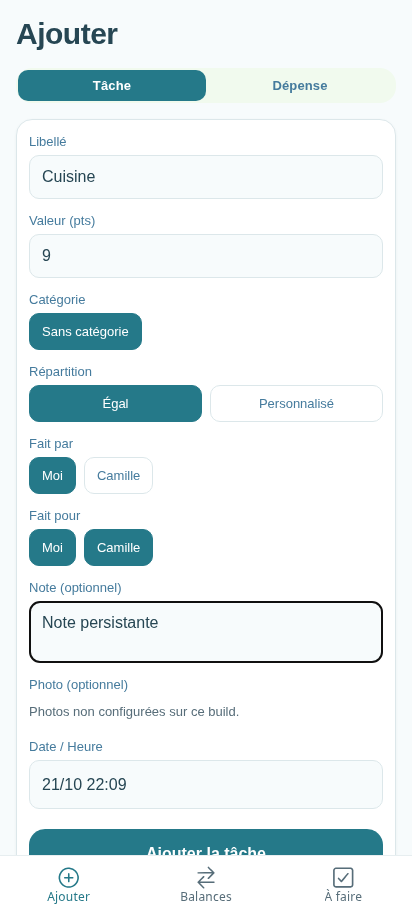
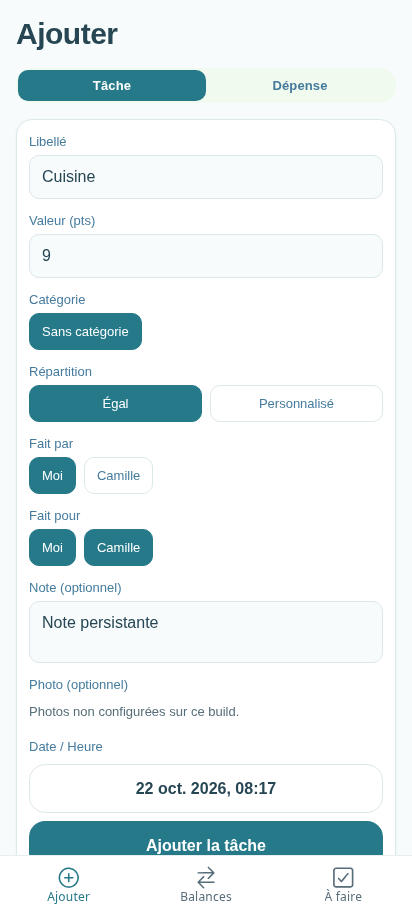
Allow precise local dates and times throughout entry and todo forms

Changed region(s): [[0.0583, 0.8262, 0.932, 0.9486], [0.9029, 0.6426, 0.932, 0.7344], [0.0583, 0.6426, 0.0874, 0.7344]]

diff --git a/app/(tabs)/todos.tsx b/app/(tabs)/todos.tsx
@@ -1,3 +1,4 @@
+import { DateTimeField } from '../../src/ui/components/DateTimeField';
 import { CategoryPicker } from '../../src/features/entries/CategoryPicker';
 import { PhotoField } from '../../src/features/entries/PhotoField';
 import { todoNotificationId } from '../../src/infrastructure/local/LocalNotificationAdapter';
@@ -844,95 +845,13 @@ export default function TodosScreen() {
                 </View>
               )}
 
-              {/* Due date */}
-              <View style={styles.inputGroup}>
-                <Text variant="caption">{t('todos.due')}</Text>
-                <TouchableOpacity
-                  style={styles.dateTimeButton}
-                  onPress={() => {
-                    Alert.alert(t('todos.dueTitle'), t('todos.duePrompt'), [
-                      {
-                        text: t('todos.dueTomorrow'),
-                        onPress: () => {
-                          const d = new Date();
-                          d.setDate(d.getDate() + 1);
-                          d.setHours(18, 0, 0, 0);
-                          setCreateForm((p) => ({ ...p, dueAt: d }));
-                        },
-                      },
-                      {
-                        text: t('todos.dueIn3Days'),
-                        onPress: () => {
-                          const d = new Date();
-                          d.setDate(d.getDate() + 3);
-                          d.setHours(18, 0, 0, 0);
-                          setCreateForm((p) => ({ ...p, dueAt: d }));
-                        },
-                      },
-                      {
-                        text: t('todos.dueIn1Week'),
-                        onPress: () => {
-                          const d = new Date();
-                          d.setDate(d.getDate() + 7);
-                          d.setHours(18, 0, 0, 0);
-                          setCreateForm((p) => ({ ...p, dueAt: d }));
-                        },
-                      },
-                      {
-                        text: t('todos.clear'),
-                        onPress: () => setCreateForm((p) => ({ ...p, dueAt: null })),
-                      },
-                      { text: t('action.cancel'), style: 'cancel' },
-                    ]);
-                  }}
-                >
-                  <Text variant="body">
-                    {createForm.dueAt ? formatDateTimeShort(createForm.dueAt) : t('todos.noDue')}
-                  </Text>
-                </TouchableOpacity>
-              </View>
+              <DateTimeField label={t('todos.due')} value={createForm.dueAt}
+                emptyLabel={t('todos.noDue')} clearable testID="todos.dueDateTime"
+                onChange={(dueAt) => setCreateForm(p => ({...p,dueAt}))} />
 
-              {/* Reminder */}
-              <View style={styles.inputGroup}>
-                <Text variant="caption">{t('todos.reminder')}</Text>
-                <TouchableOpacity
-                  style={styles.dateTimeButton}
-                  onPress={() => {
-                    Alert.alert(t('todos.reminderTitle'), t('todos.reminderPrompt'), [
-                      {
-                        text: t('todos.reminder1h'),
-                        onPress: () => {
-                          if (createForm.dueAt) {
-                            const r = new Date(createForm.dueAt.getTime() - 3600000);
-                            setCreateForm((p) => ({ ...p, reminderAt: r }));
-                          }
-                        },
-                      },
-                      {
-                        text: t('todos.reminderSameDay'),
-                        onPress: () => {
-                          if (createForm.dueAt) {
-                            const r = new Date(createForm.dueAt);
-                            r.setHours(9, 0, 0, 0);
-                            setCreateForm((p) => ({ ...p, reminderAt: r }));
-                          }
-                        },
-                      },
-                      {
-                        text: t('todos.clear'),
-                        onPress: () => setCreateForm((p) => ({ ...p, reminderAt: null })),
-                      },
-                      { text: t('action.cancel'), style: 'cancel' },
-                    ]);
-                  }}
-                >
-                  <Text variant="body">
-                    {createForm.reminderAt
-                      ? formatDateTimeShort(createForm.reminderAt)
-                      : t('todos.noReminder')}
-                  </Text>
-                </TouchableOpacity>
-              </View>
+              <DateTimeField label={t('todos.reminder')} value={createForm.reminderAt}
+                emptyLabel={t('todos.noReminder')} clearable testID="todos.reminderDateTime"
+                onChange={(reminderAt) => setCreateForm(p => ({...p,reminderAt}))} />
 
               {/* Notes */}
               <View style={styles.inputGroup}>

diff --git a/src/ui/components/DateTimeField.tsx b/src/ui/components/DateTimeField.tsx
@@ -1,0 +1,72 @@
+import React, { useState } from 'react';
+import { Modal, View, TextInput, StyleSheet, KeyboardAvoidingView, Platform, ScrollView } from 'react-native';
+import { Text } from './Text';
+import { Button } from './Button';
+import { colors, spacing, borderRadius } from '../design-system/theme';
+import { useI18n } from '../../i18n';
+import { localDateTimeParts, parseLocalDateTime } from '../../domain/services/localDateTime';
+
+interface Props {
+  label: string;
+  value: Date | null;
+  onChange: (value: Date | null) => void;
+  emptyLabel?: string;
+  clearable?: boolean;
+  testID: string;
+}
+
+/** Drafts commit only on confirmation; cancel/back never changes the form.
+ * ISO date fields are deliberately explicit, while the saved date is displayed
+ * in the chosen language. The conversion uses the phone's local timezone. */
+export function DateTimeField({ label, value, onChange, emptyLabel, clearable, testID }: Props) {
+  const { t, locale } = useI18n();
+  const [visible, setVisible] = useState(false);
+  const [date, setDate] = useState('');
+  const [time, setTime] = useState('');
+  const [touched, setTouched] = useState(false);
+  const parsed = parseLocalDateTime(date,time);
+  const open = () => {
+    const parts = localDateTimeParts(value ?? new Date());
+    setDate(parts.date); setTime(parts.time); setTouched(false); setVisible(true);
+  };
+  const chooseNow = () => {
+    const parts = localDateTimeParts(new Date());
+    setDate(parts.date); setTime(parts.time); setTouched(false);
+  };
+  return <View style={styles.field}>
+    <Text variant="caption">{label}</Text>
+    <Button title={value ? new Intl.DateTimeFormat(locale, {dateStyle:'medium',timeStyle:'short'}).format(value) : emptyLabel ?? label}
+      variant="secondary" onPress={open} testID={testID} accessibilityLabel={label} />
+    <Modal visible={visible} transparent animationType="none" onRequestClose={() => setVisible(false)}>
+      <KeyboardAvoidingView style={styles.overlay} behavior={Platform.OS === 'ios' ? 'padding' : 'height'}>
+        <ScrollView contentContainerStyle={styles.center} keyboardShouldPersistTaps="handled">
+          <View style={styles.dialog} accessibilityViewIsModal>
+            <Text variant="sectionTitle">{label}</Text>
+            <Text variant="caption">{t('dateTime.localHint')}</Text>
+            <Text variant="bodyBold">{t('dateTime.date')}</Text>
+            <TextInput style={styles.input} value={date} onChangeText={setDate} onBlur={() => setTouched(true)}
+              accessibilityLabel={t('dateTime.date')} placeholder="2026-10-22" autoCorrect={false}
+              autoCapitalize="none" maxLength={10} testID={`${testID}.date`} />
+            <Text variant="bodyBold">{t('dateTime.time')}</Text>
+            <TextInput style={styles.input} value={time} onChangeText={setTime} onBlur={() => setTouched(true)}
+              accessibilityLabel={t('dateTime.time')} placeholder="18:30" autoCorrect={false}
+              autoCapitalize="none" maxLength={5} testID={`${testID}.time`} />
+            {touched && !parsed ? <Text color={colors.error} accessibilityLiveRegion="polite">{t('dateTime.invalid')}</Text> : null}
+            <Button title={t('dateTime.now')} variant="ghost" onPress={chooseNow} />
+            <Button title={t('action.confirm')} disabled={!parsed} testID={`${testID}.confirm`}
+              onPress={() => { if(parsed) { onChange(parsed); setVisible(false); } }} />
+            {clearable && value ? <Button title={t('dateTime.clear')} variant="secondary"
+              onPress={() => { onChange(null); setVisible(false); }} /> : null}
+            <Button title={t('action.cancel')} variant="ghost" onPress={() => setVisible(false)} />
+          </View>
+        </ScrollView>
+      </KeyboardAvoidingView>
+    </Modal>
+  </View>;
+}
+const styles = StyleSheet.create({
+  field:{gap:spacing.sm},overlay:{flex:1,backgroundColor:'rgba(20,40,48,0.45)'},
+  center:{flexGrow:1,justifyContent:'center',alignItems:'center',padding:spacing.lg},
+  dialog:{width:'100%',maxWidth:440,backgroundColor:colors.surface,borderRadius:borderRadius.lg,padding:spacing.xl,gap:spacing.md},
+  input:{borderWidth:1,borderColor:colors.border,borderRadius:borderRadius.sm,minHeight:48,padding:spacing.md,fontSize:18,color:colors.text},
+});

diff --git a/app/(tabs)/add.tsx b/app/(tabs)/add.tsx
@@ -1,3 +1,4 @@
+import { DateTimeField } from '../../src/ui/components/DateTimeField';
 import { taskUpdatePayload, expenseUpdatePayload } from '../../src/features/entries/editPayload';
 import { PhotoField } from '../../src/features/entries/PhotoField';
 import { LoadingState, ErrorState } from '../../src/ui/components/States';
@@ -774,22 +775,6 @@ export default function AddScreen() {
     });
   };
 
-  const pickDateTime = (current: Date, onPick: (date: Date) => void) => {
-    Alert.alert(t('add.dateTime'), formatDateTimeShort(current), [
-      { text: t('add.dateNow'), onPress: () => onPick(new Date()) },
-      { text: t('add.dateHourAgo'), onPress: () => onPick(new Date(Date.now() - 3600000)) },
-      {
-        text: t('add.dateYesterday'),
-        onPress: () => {
-          const d = new Date();
-          d.setDate(d.getDate() - 1);
-          onPick(d);
-        },
-      },
-      { text: t('action.cancel'), style: 'cancel' },
-    ]);
-  };
-
   // A stored task keeps its own unit: editing it must never relabel minutes as
   // points (or the reverse) just because the group later changed its unit.
   const activeTaskUnit = isEditing ? taskEditUnit ?? householdUnit : householdUnit;
@@ -1258,22 +1243,8 @@ export default function AddScreen() {
             'add.taskPhotoButton',
           )}
 
-          {/* Date / Time */}
-          <View style={styles.inputGroup}>
-            <Text variant="caption">{t('add.dateTime')}</Text>
-            <TouchableOpacity
-              style={styles.dateTimeButton}
-              onPress={() =>
-                pickDateTime(taskForm.occurredAt, (date) =>
-                  setTaskForm((prev) => ({ ...prev, occurredAt: date })),
-                )
-              }
-              accessibilityRole="button"
-              accessibilityLabel={t('a11y.chooseDateTime')}
-            >
-              <Text variant="body">{formatDateTimeShort(taskForm.occurredAt)}</Text>
-            </TouchableOpacity>
-          </View>
+          <DateTimeField label={t('add.dateTime')} value={taskForm.occurredAt}
+            testID="add.taskDateTime" onChange={(date) => { if(date) setTaskForm(prev => ({...prev,occurredAt:date})); }} />
 
           <Button
             title={isEditing ? t('add.update') : t('add.addTask')}
@@ -1481,22 +1452,8 @@ export default function AddScreen() {
             'add.expensePhotoButton',
           )}
 
-          {/* Date / Time */}
-          <View style={styles.inputGroup}>
-            <Text variant="caption">{t('add.dateTime')}</Text>
-            <TouchableOpacity
-              style={styles.dateTimeButton}
-              onPress={() =>
-                pickDateTime(expenseForm.occurredAt, (date) =>
-                  setExpenseForm((prev) => ({ ...prev, occurredAt: date })),
-                )
-              }
-              accessibilityRole="button"
-              accessibilityLabel={t('a11y.chooseDateTime')}
-            >
-              <Text variant="body">{formatDateTimeShort(expenseForm.occurredAt)}</Text>
-            </TouchableOpacity>
-          </View>
+          <DateTimeField label={t('add.dateTime')} value={expenseForm.occurredAt}
+            testID="add.expenseDateTime" onChange={(date) => { if(date) setExpenseForm(prev => ({...prev,occurredAt:date})); }} />
 
           <Button
             title={isEditing ? t('add.update') : t('add.addExpense')}

diff --git a/src/i18n/catalog.ts b/src/i18n/catalog.ts
@@ -27,6 +27,12 @@ export const CATALOG: Record<SupportedLocale, LocaleCatalog> = {
 
     // ── Common actions & states ───────────────────────────────
     'action.save': 'Enregistrer',
+    'dateTime.date': 'Date (AAAA-MM-JJ)',
+    'dateTime.time': 'Heure (HH:MM)',
+    'dateTime.localHint': 'Date et heure locales de votre téléphone.',
+    'dateTime.invalid': 'Vérifiez la date et l’heure : ce créneau doit exister.',
+    'dateTime.now': 'Maintenant',
+    'dateTime.clear': 'Retirer la date',
     'action.cancel': 'Annuler',
     'action.delete': 'Supprimer',
     'action.edit': 'Modifier',
@@ -431,6 +437,12 @@ export const CATALOG: Record<SupportedLocale, LocaleCatalog> = {
 
     // ── Common actions & states ───────────────────────────────
     'action.save': 'Save',
+    'dateTime.date': 'Date (YYYY-MM-DD)',
+    'dateTime.time': 'Time (HH:MM)',
+    'dateTime.localHint': 'Date and time in your phone’s local timezone.',
+    'dateTime.invalid': 'Check the date and time: this time must exist.',
+    'dateTime.now': 'Now',
+    'dateTime.clear': 'Remove date',
     'action.cancel': 'Cancel',
     'action.delete': 'Delete',
     'action.edit': 'Edit',

diff --git a/src/domain/services/localDateTime.ts b/src/domain/services/localDateTime.ts
@@ -1,0 +1,16 @@
+/** Parse explicit local date/time without Date's silent overflow (31 February)
+ * or DST-gap normalization. No implicit UTC conversion of date-only strings. */
+export function parseLocalDateTime(date: string, time: string): Date | null {
+  if (!/^\d{4}-\d{2}-\d{2}$/.test(date) || !/^\d{2}:\d{2}$/.test(time)) return null;
+  const [year,month,day] = date.split('-').map(Number);
+  const [hour,minute] = time.split(':').map(Number);
+  if (year < 100 || month < 1 || month > 12 || day < 1 || day > 31 || hour > 23 || minute > 59) return null;
+  const result = new Date(year,month-1,day,hour,minute,0,0);
+  return result.getFullYear() === year && result.getMonth() === month-1 && result.getDate() === day &&
+    result.getHours() === hour && result.getMinutes() === minute ? result : null;
+}
+export function localDateTimeParts(value: Date): {date:string;time:string} {
+  const pad = (part: number) => String(part).padStart(2,'0');
+  return {date:`${String(value.getFullYear()).padStart(4,'0')}-${pad(value.getMonth()+1)}-${pad(value.getDate())}`,
+    time:`${pad(value.getHours())}:${pad(value.getMinutes())}`};
+}

diff --git a/tests/localDateTime.test.ts b/tests/localDateTime.test.ts
@@ -1,0 +1,12 @@
+import { localDateTimeParts, parseLocalDateTime } from '../src/domain/services/localDateTime';
+
+test('accepts leap days, rejects silent date/time overflow and round-trips local wall time', () => {
+  const date = parseLocalDateTime('2024-02-29','23:59');
+  expect(date).not.toBeNull();
+  expect(localDateTimeParts(date!)).toEqual({date:'2024-02-29',time:'23:59'});
+  for (const [day,time] of [['2023-02-29','12:00'],['2026-04-31','12:00'],['2026-13-01','12:00'],
+    ['2026-01-01','24:00'],['2026-01-01','12:60'],['2026-01-01','-1:00'],['26-01-01','12:00']]) {
+    expect(parseLocalDateTime(day,time)).toBeNull();
+  }
+  expect(parseLocalDateTime('2026-01-01','00:00')?.getHours()).toBe(0);
+});

diff --git a/VERIFICATION.md b/VERIFICATION.md
@@ -8,7 +8,7 @@ Sources lues : `AGENTS.md`, `CODEX_MISSION.md`, `PRODUCT.md`, les deux documents
 | --- | --- | --- |
 | Groupes, membres, minutes/points | Sélecteur à la création, dernier nom non validé inclus, garde contre double soumission ; test navigateur avec rechargement + SQLite sur disque | Essais Android, groupes nombreux et longs noms |
 | Identité persistée | Identifiant local distinct par installation ; identité des installations existantes conservée ; toutes les routes attendent la restauration | Identité locale sans autorisation cloud |
-| Tâches/dépenses | Saisie et notes testées dans le navigateur ; soldes +4,5 points et +0,50 CHF attendus ; parser monétaire exact, rejet des fractions de centime et des dépassements | Date/heure actuellement limitée aux choix prédéfinis ; essais natifs complets et compensation non vérifiés |
+| Tâches/dépenses | Saisie et notes testées dans le navigateur ; soldes +4,5 points et +0,50 CHF attendus ; parser monétaire exact, rejet des fractions de centime et des dépassements | Date/heure précise et rejet des dates impossibles vérifiés dans le navigateur, annulation sans modification et valeur retrouvée à l’édition ; essais natifs complets et compensation non vérifiés |
 | Catégories et ratios | Catégories sélectionnables dans À faire ; ratio snapshoté à la complétion, remplaçable par égal/custom ; tests de conservation historique | Revue visuelle Android du gestionnaire |
 | Balances, édition/suppression | Modification de 9 à 20 points depuis Balances, note conservée, solde +10 et dépense retrouvés après rechargement ; suppression/liens photos testés sur SQLite | Suppression par dialogue natif et gros historique non validés ; chargement initial des ledgers encore complet |
 | À faire tâche/dépense | Relecture dans transaction sérialisée : un seul succès pour deux complétions concurrentes ; rollback ledger/todo/outbox ; custom shares exactes ; parcours tâche réel dans le navigateur | Double appui Android et parcours dépense Android non exécutés |
@@ -24,15 +24,15 @@ Sources lues : `AGENTS.md`, `CODEX_MISSION.md`, `PRODUCT.md`, les deux documents
 - `npm ci --no-audit --no-fund` : réinstallation depuis le lockfile réussie.
 - `npm run typecheck` : passe.
 - `npm run test:backend` : scénario HTTP réel réussi avec comptes signés par clé de test, SQLite sur disque, redémarrage, isolation, révocation/expiration, conflit, rollback, double complétion et pagination. Aucun vrai compte Firebase/appareil dans ce scénario.
-- `npm test` : **55 tests exécutés, 55 réussis**, dont les repositories réels sur SQLite sur disque via le pilote Node. Ce pont de test ne valide pas le pont Expo Android.
+- `npm test` : **56 tests exécutés, 56 réussis**, dont les repositories réels sur SQLite sur disque via le pilote Node. Ce pont de test ne valide pas le pont Expo Android.
 - `EXPO_NO_TELEMETRY=1 EXPO_OFFLINE=1 npm run test:web` : parcours navigateur réel réussi, aucune erreur JavaScript observée. Groupe, tâche, dépense, édition, persistance, complétion et langue vérifiés.
 - Prébuild Android : réussi. Compilation Gradle ARM64 + x86_64 : première configuration corrigée (JDK 17/proxy/CA), puis échec réseau HTTP 503 sur deux artifacts AndroidX de `dl.google.com`. Ne pas assimiler cet échec à une compilation réussie.
 - Émulateur API 35 lancé sans KVM : connexion directe à ADB et démarrage complet obtenus (`sys.boot_completed=1`, Android 15). Capture système restée en timeout ; application non installée.
-- Un seul workflow Android, désormais déclenché sur PR et exécutant les tests avec Node 24. Le push a ensuite échoué (HTTP 503 du service réseau, également sur l’API GitHub) : aucune PR ni exécution CI de cette branche n’a encore pu être créée.
+- Un seul workflow Android, désormais déclenché sur PR et exécutant les tests avec Node 24. Après rétablissement du réseau, branche poussée et [PR nº 2](https://github.com/Mickalive/chorescore-v5/pull/2) ouverte en brouillon. Workflow Android démarré (exécution 39701219229), résultat à relever après terminaison.
 
 ## Captures observées — navigateur uniquement
 
-[Groupes vide](docs/evidence/groups-empty-web.png) · [Groupes rempli](docs/evidence/groups-filled-web.png) · [Ajouter tâche](docs/evidence/add-task-web.png) · [Ajouter dépense](docs/evidence/add-expense-web.png) · [Balances](docs/evidence/balances-web.png) · [À faire](docs/evidence/todos-web.png) · [Options EN, petit écran](docs/evidence/settings-en-small-web.png).
+[Saisie date/heure](docs/evidence/date-time-web.png) · [Groupes vide](docs/evidence/groups-empty-web.png) · [Groupes rempli](docs/evidence/groups-filled-web.png) · [Ajouter tâche](docs/evidence/add-task-web.png) · [Ajouter dépense](docs/evidence/add-expense-web.png) · [Balances](docs/evidence/balances-web.png) · [À faire](docs/evidence/todos-web.png) · [Options EN, petit écran](docs/evidence/settings-en-small-web.png).
 
 Reproduire avec Node 24, `npm ci`, puis `npm test`. Pour le navigateur : Chromium installé, `EXPO_NO_TELEMETRY=1 EXPO_OFFLINE=1 npm run test:web`. `CHROME_BIN` permet de préciser son chemin ; les captures sont écrites dans `/tmp/chorescore-web-evidence` ou `EVIDENCE_DIR`.
 

diff --git a/docs/FIREBASE_SETUP.md b/docs/FIREBASE_SETUP.md
@@ -1,6 +1,6 @@
 # Activation Google / Firebase — non activée dans cette branche
 
-Cette branche implémente l'authentification Google. Elle **n'implémente pas encore le backend de collaboration**. Renseigner ces variables ne synchronise pas les groupes ; l'interface conserve l'indication de stockage local et les invitations distantes restent indisponibles.
+Cette branche implémente l'authentification Google et un serveur de collaboration testé séparément (voir `backend/README.md`), **pas encore déployé ni raccordé au client mobile**. Renseigner ces variables ne synchronise pas les groupes ; l'interface conserve l'indication de stockage local et les invitations distantes restent indisponibles.
 
 ## Projet et accès
 
@@ -27,4 +27,4 @@ Apple et Facebook ne sont pas activés. Aucun faux compte social n'est généré
 
 Connexion réelle, fermeture/réouverture, expiration/rafraîchissement, déconnexion, deuxième compte et refus d'accès. Les tests unitaires simulent les réponses réseau : ils vérifient le cycle de session, pas le fournisseur.
 
-Le backend doit encore définir et vérifier l'isolation des groupes, les invitations ciblées conservant le `memberId`, l'outbox/deltas/tombstones, les conflits comptables et le stockage privé des photos. Tant que ces parcours n'ont pas fonctionné entre deux comptes/appareils, aucune release collaborative ne peut être déclarée prête.
+Les tests HTTP du serveur vérifient l’isolation des groupes, les invitations ciblées conservant le `memberId`, les deltas paginés, conflits et transactions. Restent notamment le raccordement du client et de son outbox, le déploiement et le stockage privé des photos. Tant que ces parcours n'ont pas fonctionné entre deux comptes/appareils, aucune release collaborative ne peut être déclarée prête.
